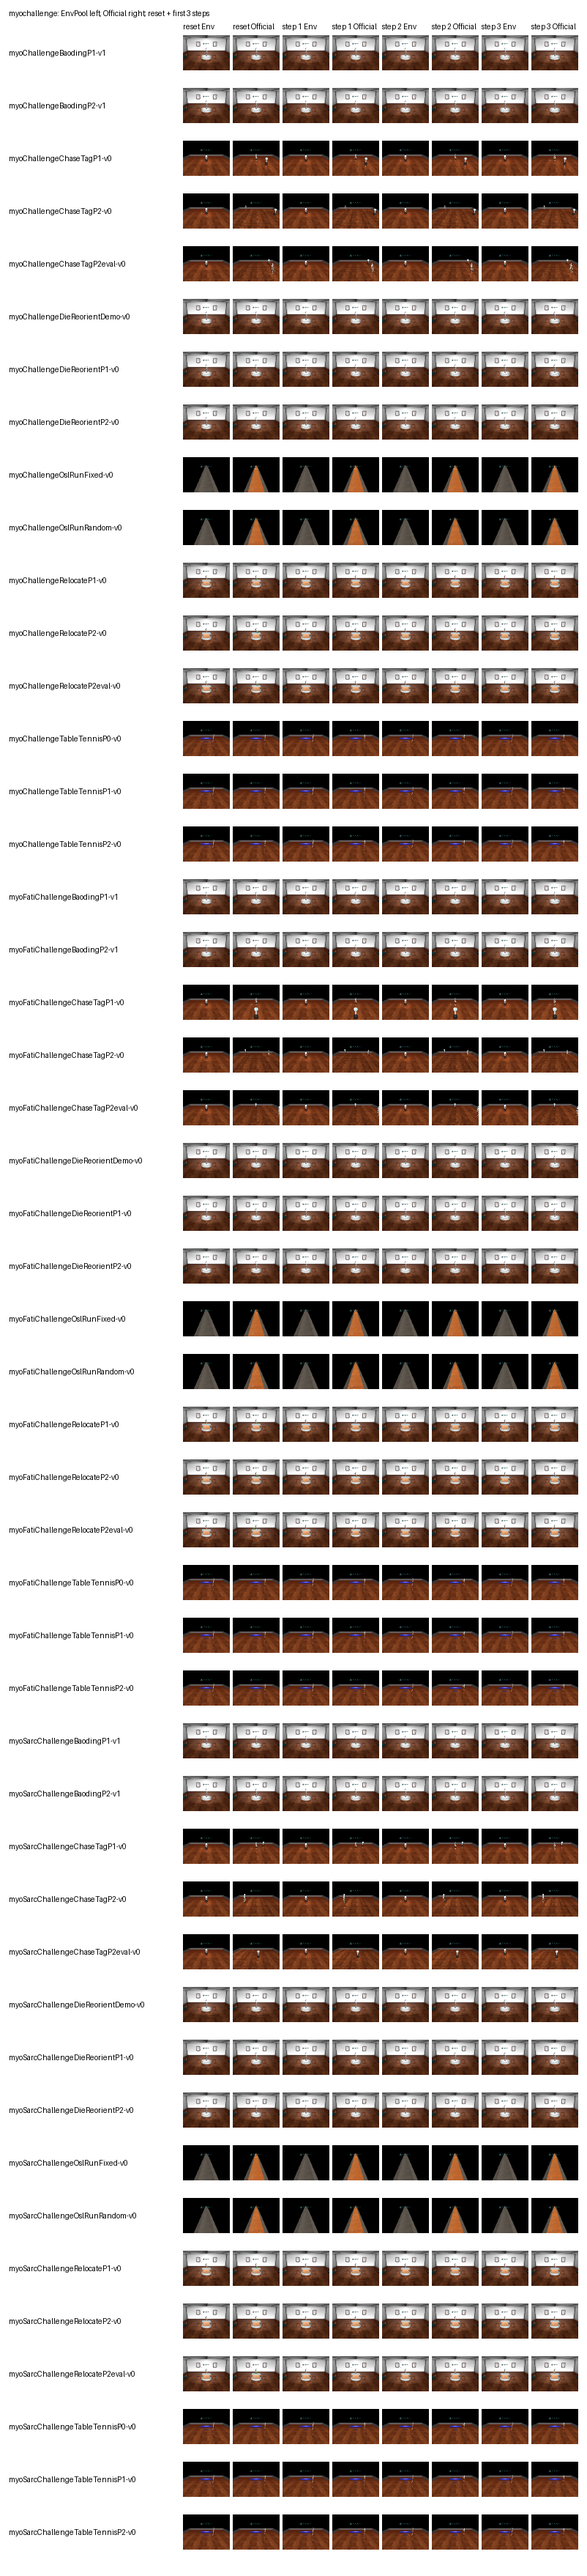
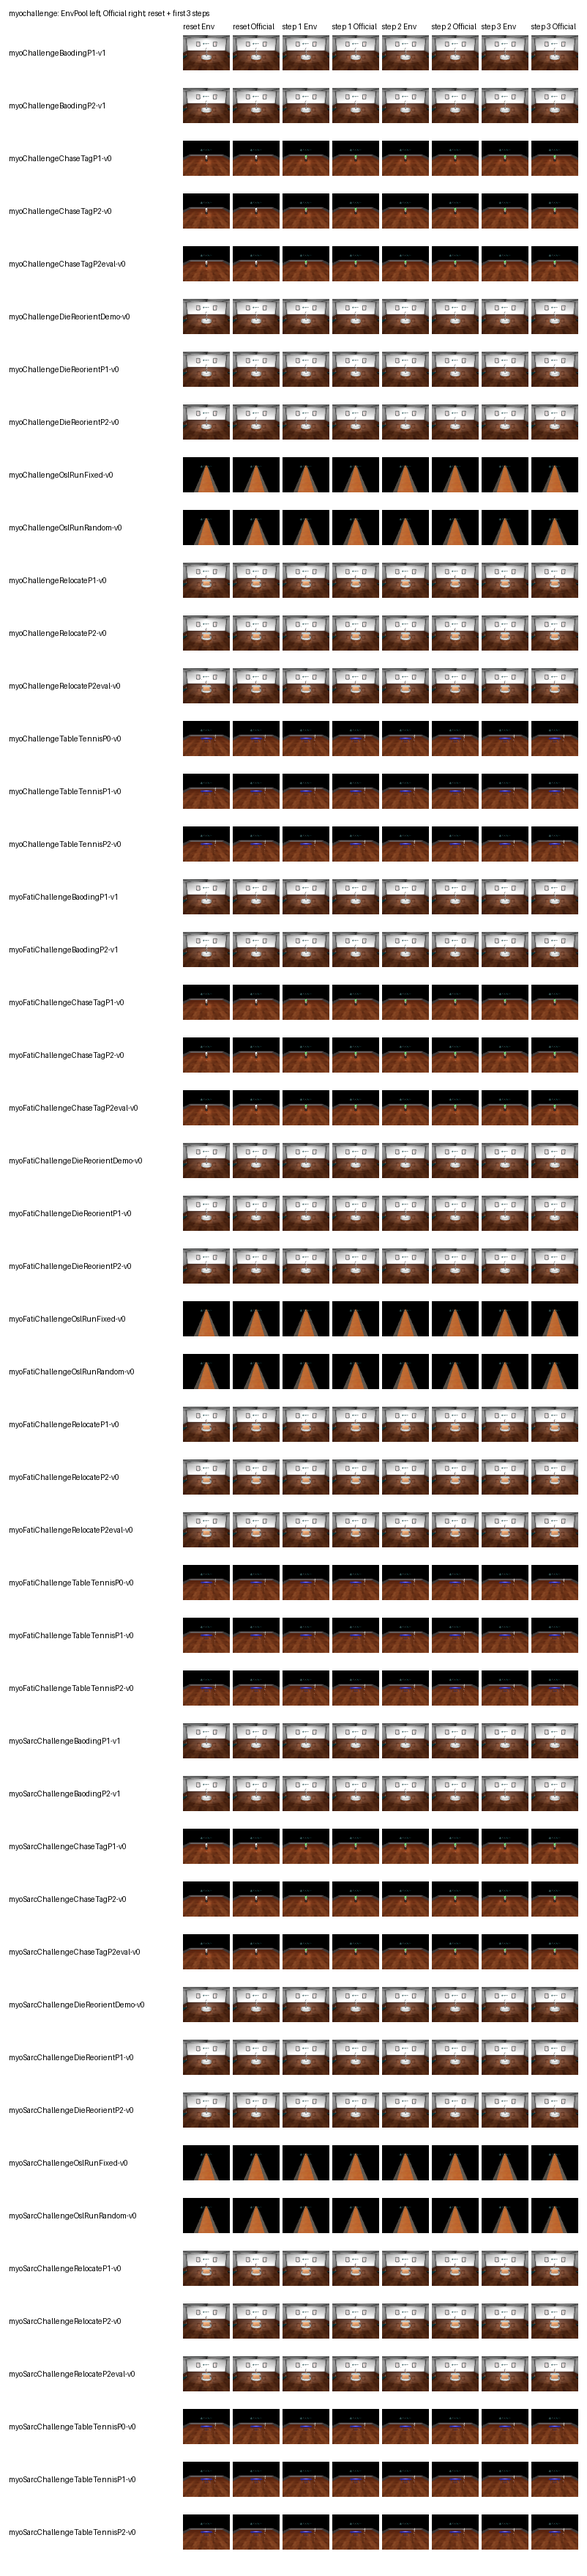
Align macOS CGL render backend

diff --git a/envpool/mujoco/metaworld/metaworld_render_test.py b/envpool/mujoco/metaworld/metaworld_render_test.py
@@ -101,7 +101,7 @@ def _configure_macos_official_renderer() -> None:
 
             attrib = cgl.CGLPixelFormatAttribute
             profile = cgl.CGLOpenGLProfile
-            attrib_values = (
+            offline_attribs = (
                 attrib.CGLPFAOpenGLProfile,
                 profile.CGLOGLPVersion_Legacy,
                 attrib.CGLPFAColorSize,
@@ -113,18 +113,31 @@ def _configure_macos_official_renderer() -> None:
                 attrib.CGLPFAStencilSize,
                 8,
                 attrib.CGLPFAAllowOfflineRenderers,
-                0,
                 0,  # terminator
             )
-            attribs = (ctypes.c_int * len(attrib_values))(*attrib_values)
-            self._pixel_format = cgl.CGLPixelFormatObj()
-            num_pixel_formats = cgl.GLint()
-            cgl.CGLChoosePixelFormat(
-                attribs,
-                ctypes.byref(self._pixel_format),
-                ctypes.byref(num_pixel_formats),
+            preferred_attribs = (
+                attrib.CGLPFAOpenGLProfile,
+                profile.CGLOGLPVersion_Legacy,
+                attrib.CGLPFAColorSize,
+                24,
+                attrib.CGLPFAAlphaSize,
+                8,
+                attrib.CGLPFADepthSize,
+                24,
+                attrib.CGLPFAStencilSize,
+                8,
+                attrib.CGLPFAMultisample,
+                attrib.CGLPFASampleBuffers,
+                1,
+                attrib.CGLPFASample,
+                4,
+                attrib.CGLPFAAccelerated,
+                0,  # terminator
             )
-            if not self._pixel_format or num_pixel_formats.value == 0:
+            self._pixel_format: Any = None
+            if not self._choose_pixel_format(
+                cgl, offline_attribs
+            ) and not self._choose_pixel_format(cgl, preferred_attribs):
                 raise RuntimeError("failed to create CGL pixel format")
 
             self._context = cgl.CGLContextObj()
@@ -138,6 +151,25 @@ def _configure_macos_official_renderer() -> None:
                 self._pixel_format = None
                 raise RuntimeError("failed to create CGL context")
             self._locked = False
+
+        def _choose_pixel_format(
+            self, cgl: Any, attrib_values: tuple[int, ...]
+        ) -> bool:
+            attribs = (ctypes.c_int * len(attrib_values))(*attrib_values)
+            pixel_format = cgl.CGLPixelFormatObj()
+            num_pixel_formats = cgl.GLint()
+            try:
+                cgl.CGLChoosePixelFormat(
+                    attribs,
+                    ctypes.byref(pixel_format),
+                    ctypes.byref(num_pixel_formats),
+                )
+            except cgl.CGLError:
+                return False
+            if not pixel_format or num_pixel_formats.value == 0:
+                return False
+            self._pixel_format = pixel_format
+            return True
 
         def make_current(self) -> None:
             from mujoco.cgl import cgl

diff --git a/envpool/mujoco/gym/mujoco_render_test.py b/envpool/mujoco/gym/mujoco_render_test.py
@@ -96,7 +96,7 @@ def _configure_macos_official_renderer() -> None:
 
             attrib = cgl.CGLPixelFormatAttribute
             profile = cgl.CGLOpenGLProfile
-            attrib_values = (
+            offline_attribs = (
                 attrib.CGLPFAOpenGLProfile,
                 profile.CGLOGLPVersion_Legacy,
                 attrib.CGLPFAColorSize,
@@ -108,18 +108,31 @@ def _configure_macos_official_renderer() -> None:
                 attrib.CGLPFAStencilSize,
                 8,
                 attrib.CGLPFAAllowOfflineRenderers,
-                0,
                 0,  # terminator
             )
-            attribs = (ctypes.c_int * len(attrib_values))(*attrib_values)
-            self._pixel_format = cgl.CGLPixelFormatObj()
-            num_pixel_formats = cgl.GLint()
-            cgl.CGLChoosePixelFormat(
-                attribs,
-                ctypes.byref(self._pixel_format),
-                ctypes.byref(num_pixel_formats),
+            preferred_attribs = (
+                attrib.CGLPFAOpenGLProfile,
+                profile.CGLOGLPVersion_Legacy,
+                attrib.CGLPFAColorSize,
+                24,
+                attrib.CGLPFAAlphaSize,
+                8,
+                attrib.CGLPFADepthSize,
+                24,
+                attrib.CGLPFAStencilSize,
+                8,
+                attrib.CGLPFAMultisample,
+                attrib.CGLPFASampleBuffers,
+                1,
+                attrib.CGLPFASample,
+                4,
+                attrib.CGLPFAAccelerated,
+                0,  # terminator
             )
-            if not self._pixel_format or num_pixel_formats.value == 0:
+            self._pixel_format: Any = None
+            if not self._choose_pixel_format(
+                cgl, offline_attribs
+            ) and not self._choose_pixel_format(cgl, preferred_attribs):
                 raise RuntimeError("failed to create CGL pixel format")
 
             self._context = cgl.CGLContextObj()
@@ -133,6 +146,25 @@ def _configure_macos_official_renderer() -> None:
                 self._pixel_format = None
                 raise RuntimeError("failed to create CGL context")
             self._locked = False
+
+        def _choose_pixel_format(
+            self, cgl: Any, attrib_values: tuple[int, ...]
+        ) -> bool:
+            attribs = (ctypes.c_int * len(attrib_values))(*attrib_values)
+            pixel_format = cgl.CGLPixelFormatObj()
+            num_pixel_formats = cgl.GLint()
+            try:
+                cgl.CGLChoosePixelFormat(
+                    attribs,
+                    ctypes.byref(pixel_format),
+                    ctypes.byref(num_pixel_formats),
+                )
+            except cgl.CGLError:
+                return False
+            if not pixel_format or num_pixel_formats.value == 0:
+                return False
+            self._pixel_format = pixel_format
+            return True
 
         def make_current(self) -> None:
             from mujoco.cgl import cgl

diff --git a/envpool/mujoco/myosuite/myosuite_oracle_probe.py b/envpool/mujoco/myosuite/myosuite_oracle_probe.py
@@ -170,8 +170,8 @@ def _configure_macos_mujoco_renderer() -> None:
             )
 
             if not self._choose_pixel_format(
-                cgl, preferred_attribs
-            ) and not self._choose_pixel_format(cgl, offline_attribs):
+                cgl, offline_attribs
+            ) and not self._choose_pixel_format(cgl, preferred_attribs):
                 raise RuntimeError("failed to create CGL pixel format")
 
             self._context = cgl.CGLContextObj()
@@ -191,11 +191,14 @@ def _configure_macos_mujoco_renderer() -> None:
             attribs = (ctypes.c_int * len(attrib_values))(*attrib_values)
             pixel_format = cgl.CGLPixelFormatObj()
             num_pixel_formats = cgl.GLint()
-            cgl.CGLChoosePixelFormat(
-                attribs,
-                ctypes.byref(pixel_format),
-                ctypes.byref(num_pixel_formats),
-            )
+            try:
+                cgl.CGLChoosePixelFormat(
+                    attribs,
+                    ctypes.byref(pixel_format),
+                    ctypes.byref(num_pixel_formats),
+                )
+            except cgl.CGLError:
+                return False
             if not pixel_format or num_pixel_formats.value == 0:
                 return False
             self._pixel_format = pixel_format

diff --git a/envpool/mujoco/offscreen_renderer.cc b/envpool/mujoco/offscreen_renderer.cc
@@ -102,8 +102,10 @@ class CglContext final : public GlContext {
         kCGLPFAAllowOfflineRenderers,
         static_cast<CGLPixelFormatAttribute>(0),  // terminator
     };
-    if (!ChoosePixelFormat(preferred_attribs) &&
-        !ChoosePixelFormat(offline_attribs)) {
+    // Match the macOS oracle wrappers used by render alignment tests; the
+    // accelerated MSAA format can rasterize antialiased edges differently.
+    if (!ChoosePixelFormat(offline_attribs) &&
+        !ChoosePixelFormat(preferred_attribs)) {
       throw std::runtime_error("failed to create CGL pixel format");
     }
     CGLError err = CGLCreateContext(pixel_format_, nullptr, &context_);
